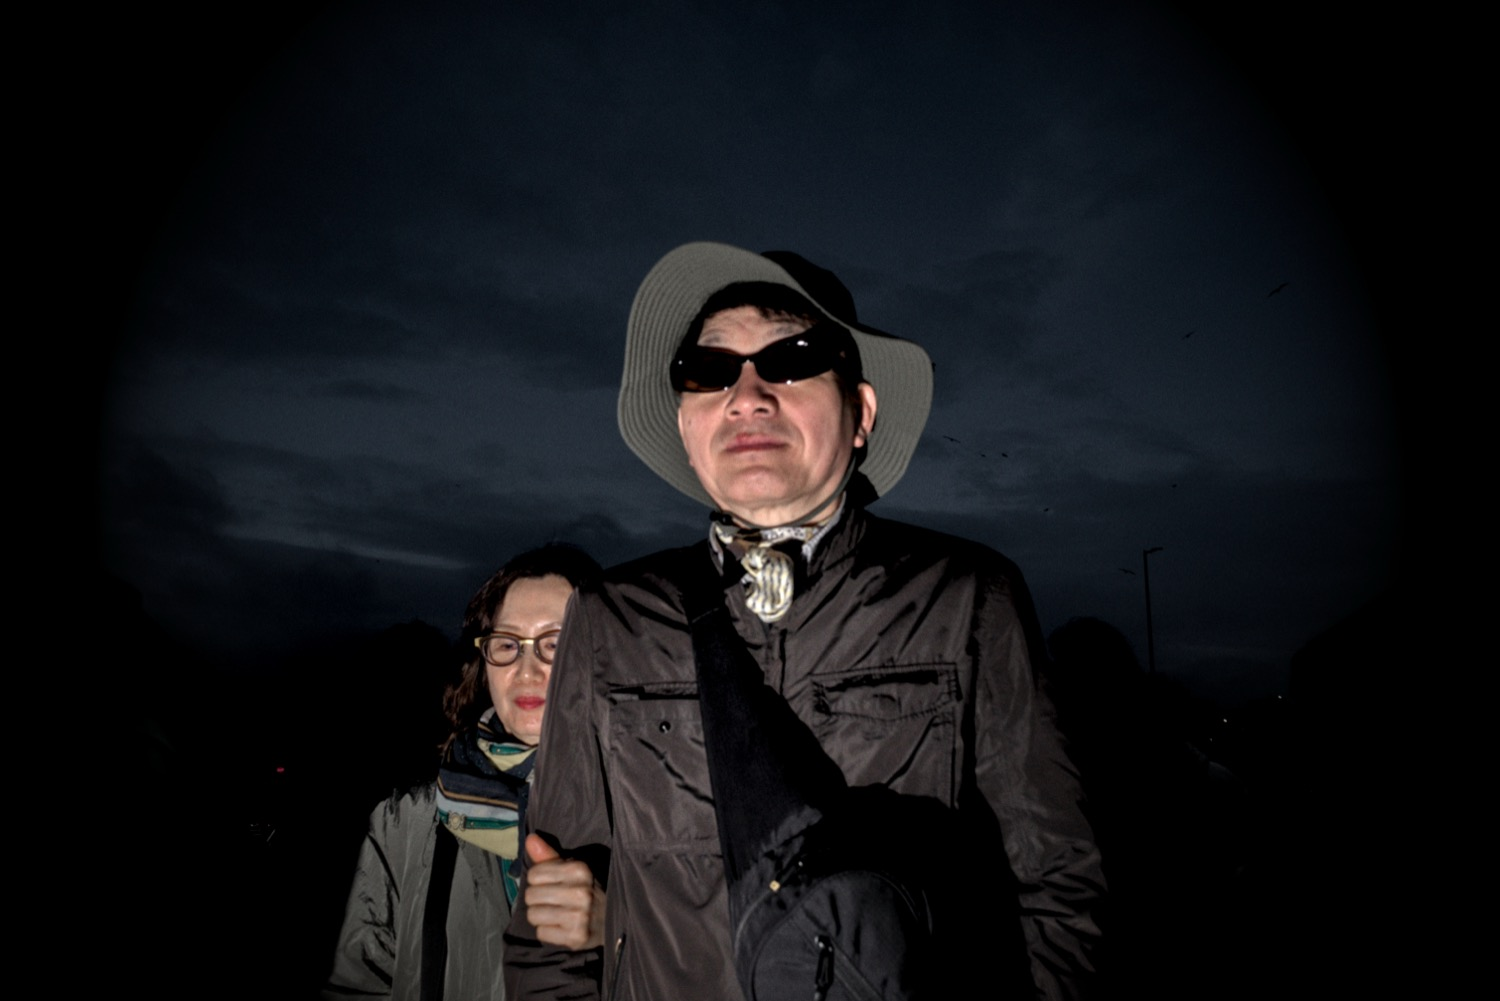
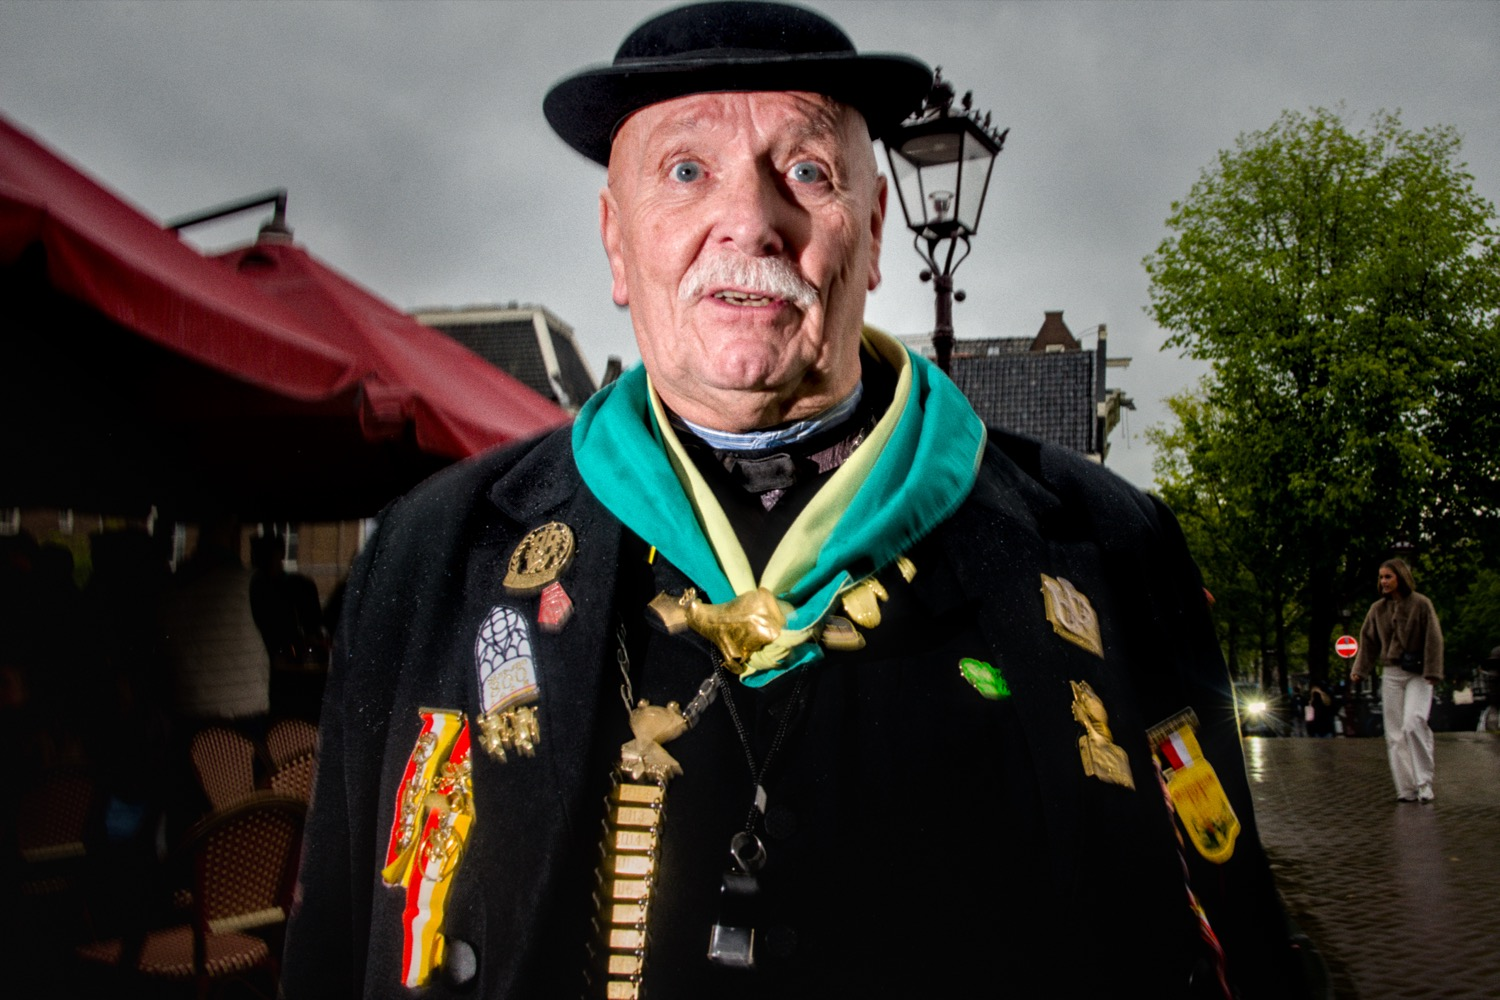
Faces: rename, add 12 images and cover, remove white border

diff --git a/street-portrait.html b/street-portrait.html
@@ -3,7 +3,7 @@
 <head>
   <meta charset="UTF-8">
   <meta name="viewport" content="width=device-width, initial-scale=1.0">
-  <title>Street Portrait — Lazaros Spaias</title>
+  <title>Faces — Lazaros Spaias</title>
   <link rel="stylesheet" href="css/style.css">
 </head>
 <body>
@@ -19,10 +19,21 @@
 
   <div class="page">
     <div class="page-inner">
-      <p class="page-title">Street Portrait</p>
+      <p class="page-title">Faces — Street Portrait</p>
 
       <div class="gallery-grid">
-        <!-- Add your images here -->
+        <div class="gallery-item"><img src="images/street-portrait/001.jpg" alt=""></div>
+        <div class="gallery-item"><img src="images/street-portrait/002.jpg" alt=""></div>
+        <div class="gallery-item"><img src="images/street-portrait/003.jpg" alt=""></div>
+        <div class="gallery-item"><img src="images/street-portrait/004.jpg" alt=""></div>
+        <div class="gallery-item"><img src="images/street-portrait/005.jpg" alt=""></div>
+        <div class="gallery-item"><img src="images/street-portrait/006.jpg" alt=""></div>
+        <div class="gallery-item"><img src="images/street-portrait/007.jpg" alt=""></div>
+        <div class="gallery-item"><img src="images/street-portrait/008.jpg" alt=""></div>
+        <div class="gallery-item"><img src="images/street-portrait/009.jpg" alt=""></div>
+        <div class="gallery-item"><img src="images/street-portrait/010.jpg" alt=""></div>
+        <div class="gallery-item"><img src="images/street-portrait/011.jpg" alt=""></div>
+        <div class="gallery-item"><img src="images/street-portrait/012.jpg" alt=""></div>
       </div>
     </div>
   </div>

diff --git a/projects.html b/projects.html
@@ -50,8 +50,8 @@
         <a href="street-portrait.html" class="project-card">
           <img src="images/street-portrait/cover.jpg" alt="Street Portrait">
           <div class="project-card-info">
-            <div class="project-card-title">Street Portrait</div>
-            <div class="project-card-count">Digital &amp; Film</div>
+            <div class="project-card-title">Faces</div>
+            <div class="project-card-count">Street Portrait</div>
           </div>
         </a>
 

diff --git a/css/style.css b/css/style.css
@@ -246,7 +246,6 @@ nav.solid {
   aspect-ratio: 3/2;
   overflow: hidden;
   cursor: pointer;
-  border: 3px solid #fff;
 }
 
 .gallery-item img {